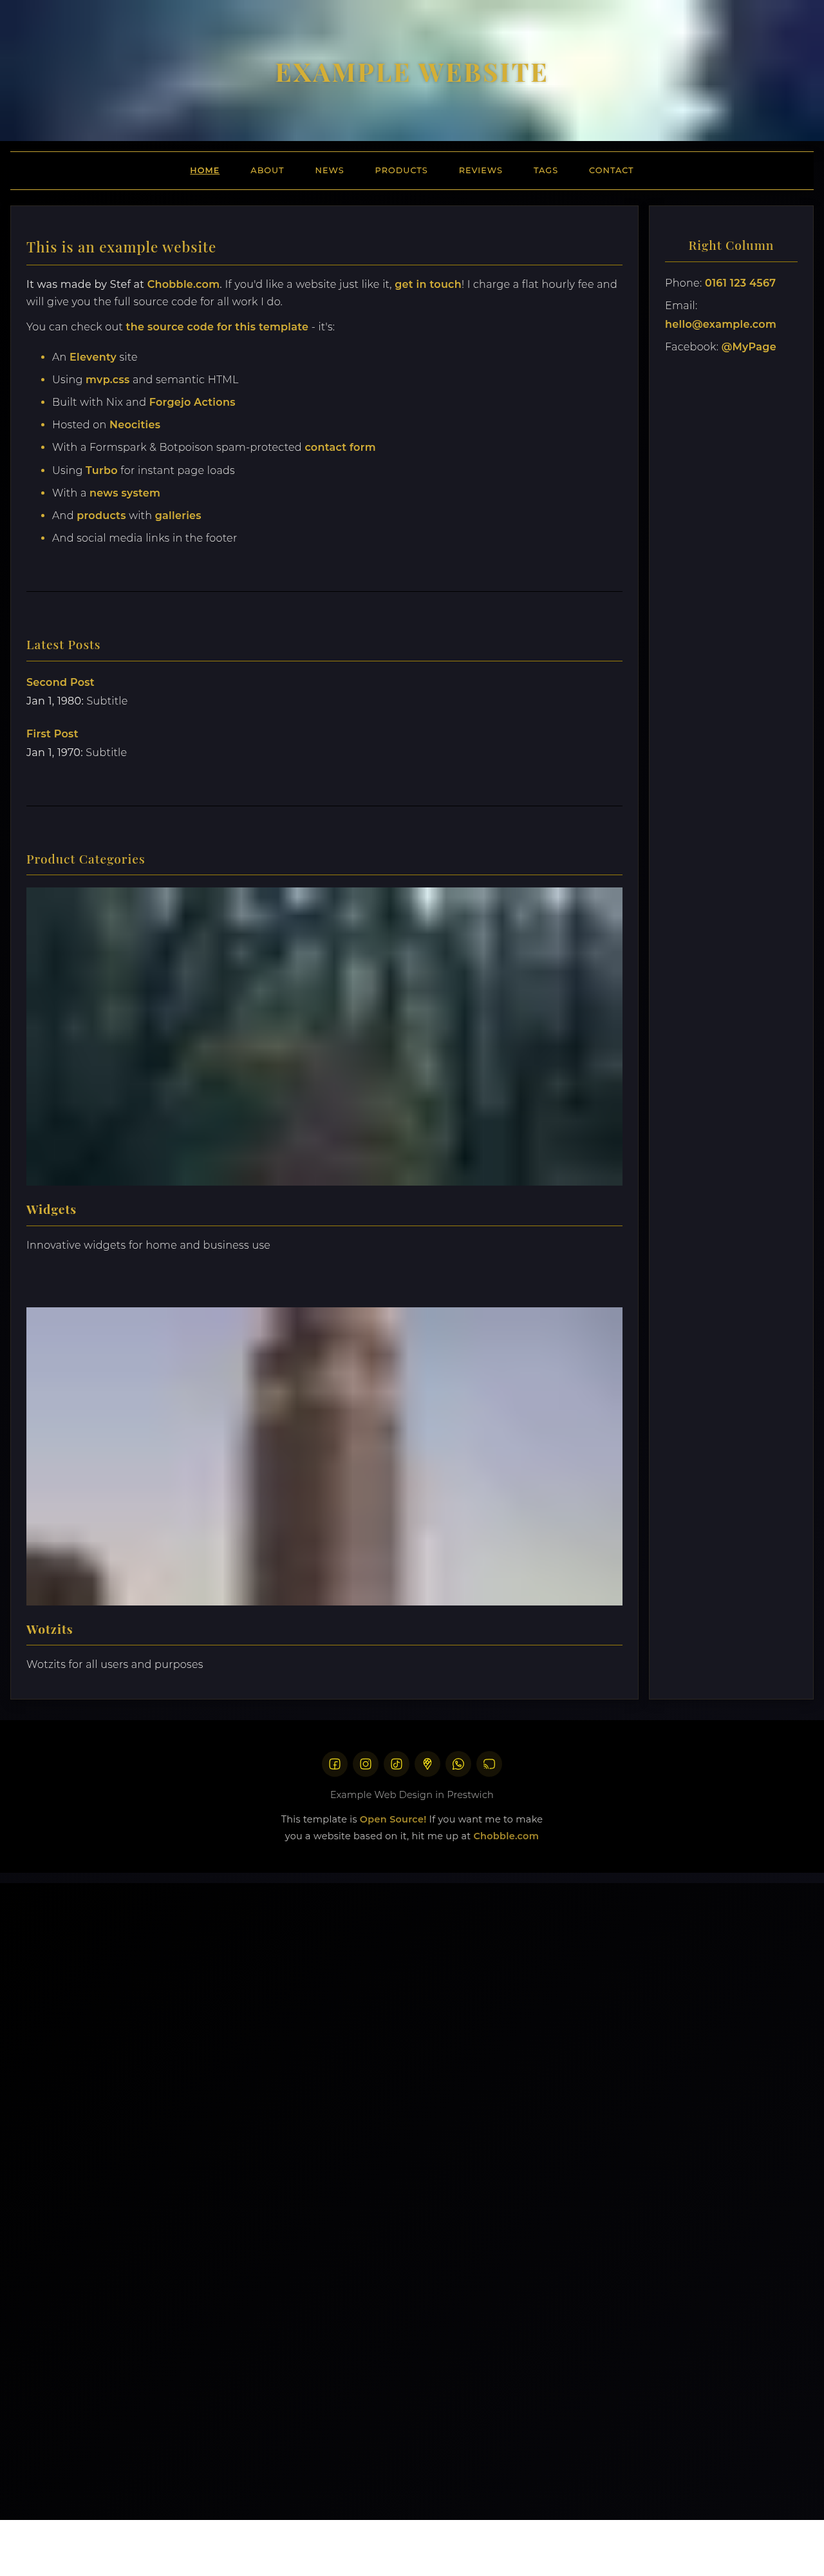
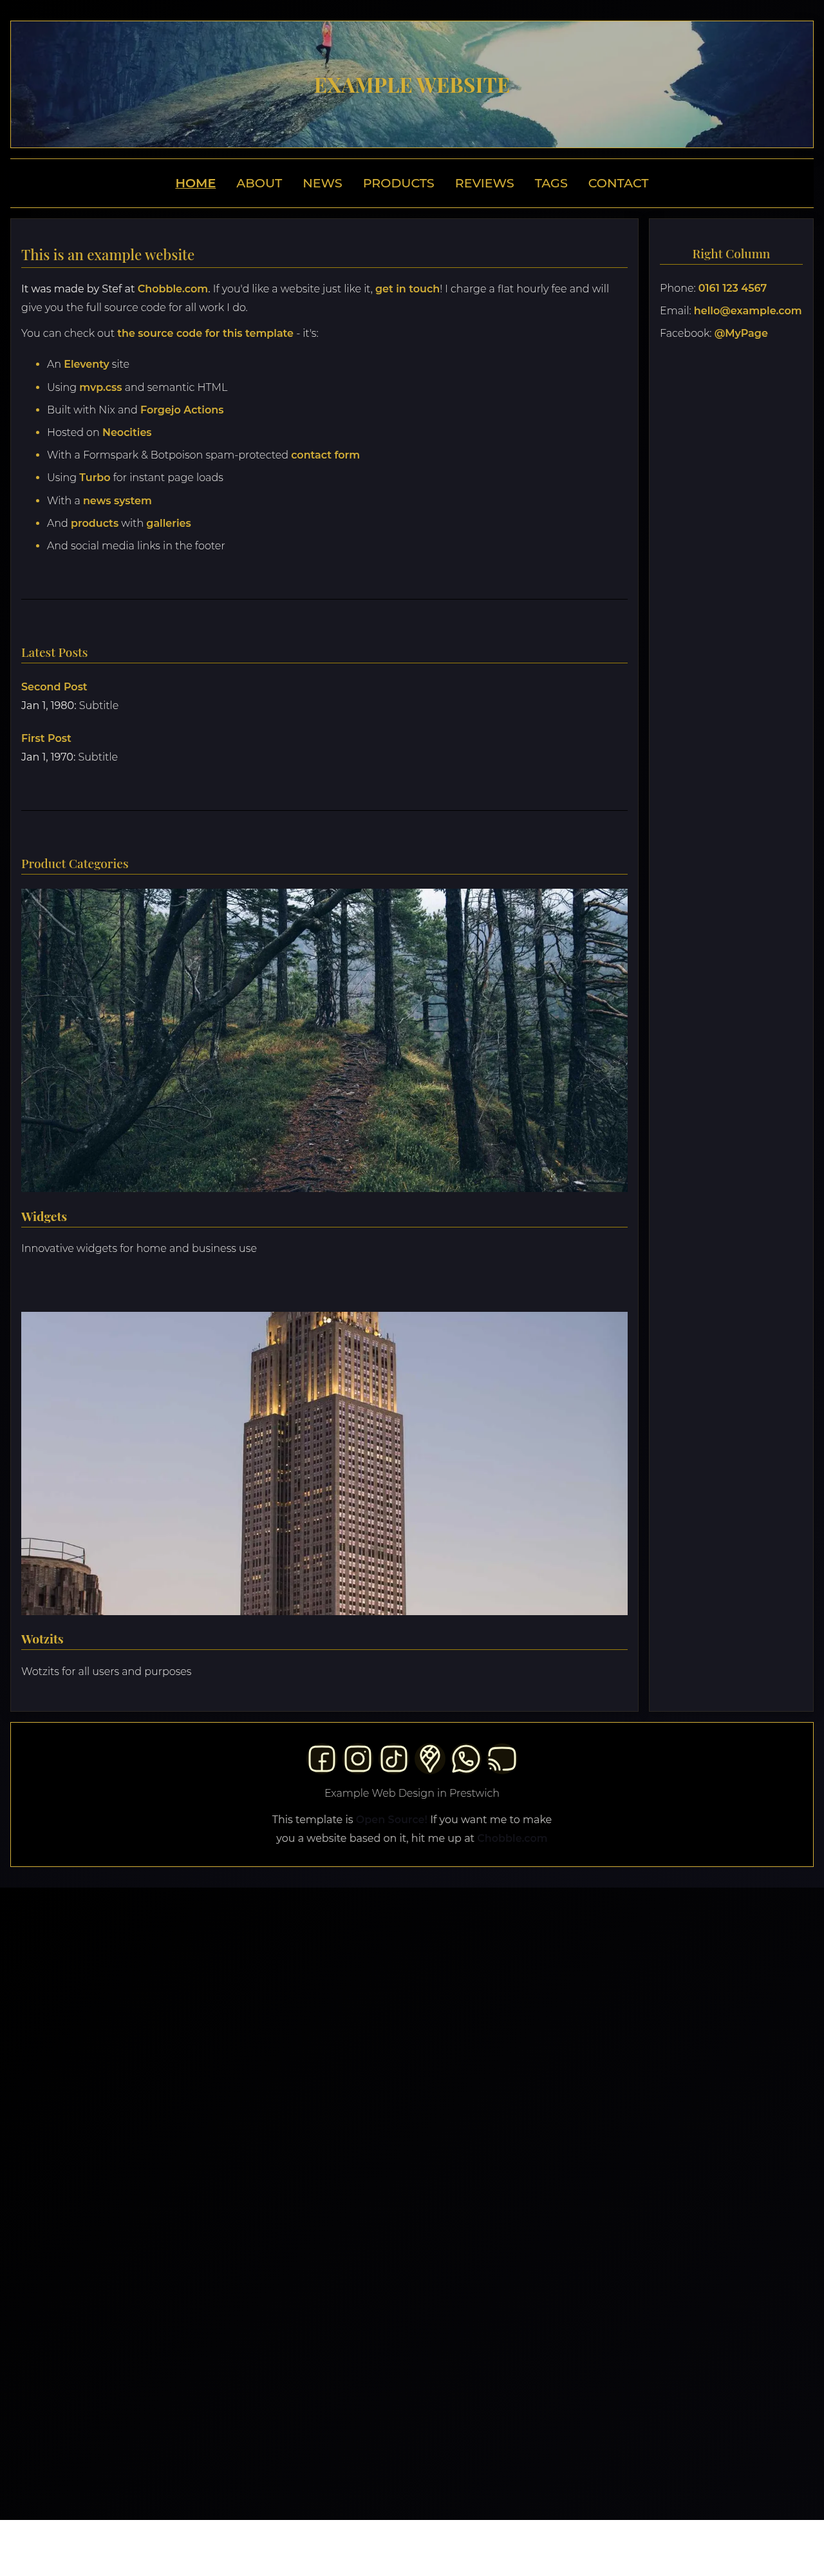
Simplify theme

diff --git a/src/css/theme.scss b/src/css/theme.scss
@@ -11,133 +11,112 @@ $platinum: #e5e4e2;
 $off-white: #f5f5f5;
 
 :root {
-  --color-bg: #{$charcoal} !important;
-  --color-bg-secondary: #{$black} !important;
-  --color-bg-main: #{$dark-gray} !important;
-  --color-text: #{$platinum} !important;
-  --color-text-secondary: #{$platinum} !important;
-  --color-link: #{$gold} !important;
-  --color-secondary: #{$gold-light} !important;
-  --color-secondary-accent: #{$gold-dark} !important;
+  --color-bg: #{$charcoal};
+  --color-bg-secondary: #{$black};
+  --color-bg-main: #{$dark-gray};
+  --color-text: #{$platinum};
+  --color-text-secondary: #{$platinum};
+  --color-link: #{$gold};
+  --color-secondary: #{$gold-light};
+  --color-secondary-accent: #{$gold-dark};
   
-  --outer-border-radius: 0 !important;
-  --outer-border-radius-small: 0 !important;
-  --border: 1px solid #{$gold} !important;
-  --box-shadow: 0 10px 20px rgba(0, 0, 0, 0.3) !important;
+  --outer-border-radius: 0;
+  --outer-border-radius-small: 0;
+  --border: 1px solid #{$gold};
+  --box-shadow: 0 10px 20px rgba(0, 0, 0, 0.3);
   
-  --font-family-heading: 'Playfair Display', Georgia, serif !important;
-  --font-family-body: 'Montserrat', Arial, sans-serif !important;
+  --font-family-heading: 'Playfair Display', Georgia, serif;
+  --font-family-body: 'Montserrat', Arial, sans-serif;
 }
 
 body {
-  background: linear-gradient(135deg, #{$black} 0%, #{$charcoal} 100%) !important;
-  color: var(--color-text) !important;
-  padding: 0 !important;
-  font-family: var(--font-family-body) !important;
-  font-weight: 300 !important;
-  letter-spacing: 0.3px !important;
+  background: linear-gradient(135deg, #{$black} 0%, #{$charcoal} 100%);
+  color: var(--color-text);
+  font-family: var(--font-family-body);
+  font-weight: 300;
 }
 
 h1, h2, h3, h4, h5, h6 {
-  font-family: var(--font-family-heading) !important;
-  letter-spacing: 1px !important;
-  color: #{$gold} !important;
-  margin-bottom: 1rem !important;
-  font-weight: 500 !important;
-  border-bottom: 1px solid #{$gold-dark} !important;
-  padding-bottom: 0.5rem !important;
+  font-family: var(--font-family-heading);
+  color: #{$gold};
+  font-weight: 500;
+  border-bottom: 1px solid #{$gold-dark};
 }
 
 a {
-  color: #{$gold} !important;
-  text-decoration: none !important;
-  transition: all 0.3s ease !important;
+  color: #{$gold};
+  text-decoration: none;
+  transition: all 0.3s ease;
   
   &:hover {
-    color: #{$gold-light} !important;
+    color: #{$gold-light};
   }
 }
 
 header {
-  border: none !important;
-  background: var(--color-bg-secondary) !important;
-  box-shadow: var(--box-shadow) !important;
-  overflow: hidden !important;
-  margin-top: 0 !important;
+  border: none;
+  background: var(--color-bg-secondary);
+  box-shadow: var(--box-shadow);
+  overflow: hidden;
   
   h1 {
-    text-transform: uppercase !important;
-    letter-spacing: 3px !important;
-    font-size: 2.5rem !important;
-    position: relative !important;
-    display: inline-block !important;
-    text-align: center !important;
-    font-weight: 700 !important;
-    font-family: 'Playfair Display', Georgia, serif !important;
-    border-bottom: none !important;
+    text-transform: uppercase;
+    position: relative;
+    display: inline-block;
+    text-align: center;
+    font-weight: 700;
+    font-family: 'Playfair Display', Georgia, serif;
+    border-bottom: none;
   }
   
   img {
-    filter: brightness(0.7) saturate(1.2) !important;
+    filter: brightness(0.7) saturate(1.2);
   }
 }
 
 nav {
-  background: #{$black} !important;
-  border: none !important;
-  box-shadow: var(--box-shadow) !important;
-  margin-bottom: 1.5rem !important;
-  border-bottom: 1px solid #{$gold} !important;
-  border-top: 1px solid #{$gold} !important;
-  padding: 0.5rem !important;
-  text-align: center !important;
-  display: flex !important;
-  flex-wrap: wrap !important;
-  justify-content: center !important;
-  gap: 0.5rem 1rem !important;
+  background: #{$black};
+  border: none;
+  box-shadow: var(--box-shadow);
+  border-bottom: 1px solid #{$gold};
+  border-top: 1px solid #{$gold};
+  text-align: center;
+  display: flex;
+  flex-wrap: wrap;
+  justify-content: center;
   
   a {
-    font-family: 'Montserrat', Arial, sans-serif !important;
-    transition: all 0.3s ease !important;
-    text-transform: uppercase !important;
-    letter-spacing: 1px !important;
-    font-size: 0.8rem !important;
-    font-weight: 500 !important;
-    padding: 0.4rem 0.5rem !important;
-    position: relative !important;
+    font-family: 'Montserrat', Arial, sans-serif;
+    transition: all 0.3s ease;
+    text-transform: uppercase;
+    font-weight: 500;
+    position: relative;
     
     &:hover {
-      color: #{$gold} !important;
+      color: #{$gold};
     }
     
     &.active {
-      color: #{$gold} !important;
-      text-decoration: underline !important;
-      font-weight: 600 !important;
+      color: #{$gold};
+      text-decoration: underline;
+      font-weight: 600;
     }
   }
 }
 
-main {
-  padding: 1rem !important;
-}
-
 article {
-  background: #{$dark-gray} !important;
-  border: 1px solid rgba(212, 175, 55, 0.1) !important;
-  box-shadow: 0 5px 15px rgba(0, 0, 0, 0.3) !important;
-  padding: 1.5rem !important;
-  margin-bottom: 1rem !important;
-  position: relative !important;
+  background: #{$dark-gray};
+  border: 1px solid rgba(212, 175, 55, 0.1);
+  box-shadow: 0 5px 15px rgba(0, 0, 0, 0.3);
+  position: relative;
   
   p {
-    color: #{$platinum} !important;
-    line-height: 1.7 !important;
+    color: #{$platinum};
   }
   
   ul, ol {
     li {
-      color: #{$platinum} !important;
+      color: #{$platinum};
       
       &::marker {
         color: #{$gold};
@@ -150,86 +129,75 @@ input[type="text"],
 input[type="password"],
 input[type="email"],
 textarea {
-  background: #{$dark-gray} !important;
-  border: 1px solid rgba(212, 175, 55, 0.3) !important;
-  color: #{$platinum} !important;
+  background: #{$dark-gray};
+  border: 1px solid rgba(212, 175, 55, 0.3);
+  color: #{$platinum};
   
   &:focus {
-    border-color: #{$gold} !important;
-    box-shadow: 0 0 5px rgba(212, 175, 55, 0.5) !important;
+    border-color: #{$gold};
+    box-shadow: 0 0 5px rgba(212, 175, 55, 0.5);
   }
 }
 
 button, 
 input[type="submit"] {
-  background: linear-gradient(135deg, #{$gold-dark} 0%, #{$gold} 100%) !important;
-  border: none !important;
-  color: #{$black} !important;
-  text-transform: uppercase !important;
-  letter-spacing: 1px !important;
-  transition: all 0.3s ease !important;
+  background: linear-gradient(135deg, #{$gold-dark} 0%, #{$gold} 100%);
+  border: none;
+  color: #{$black};
+  text-transform: uppercase;
+  transition: all 0.3s ease;
   
   &:hover {
-    transform: translateY(-2px) !important;
-    box-shadow: 0 5px 15px rgba(0, 0, 0, 0.3) !important;
+    transform: translateY(-2px);
+    box-shadow: 0 5px 15px rgba(0, 0, 0, 0.3);
   }
 }
 
 footer {
-  background: #{$black} !important;
-  border: none !important;
-  position: relative !important;
-  padding: 2rem 1rem !important;
+  background: #{$black};
+  border: none;
+  position: relative;
   
   p {
-    color: #{$platinum} !important;
-    opacity: 0.8 !important;
-    font-size: 0.9rem !important;
+    color: #{$platinum};
+    opacity: 0.8;
   }
   
   a {
-    color: #{$gold} !important;
-    position: relative !important;
-    display: inline-block !important;
+    color: #{$gold};
+    position: relative;
+    display: inline-block;
     
     &:hover {
-      color: #{$gold-light} !important;
+      color: #{$gold-light};
     }
   }
   
   ul {
-    list-style-type: none !important;
-    padding: 0 !important;
-    display: flex !important;
-    gap: 0.5rem !important;
-    justify-content: center !important;
+    list-style-type: none;
+    display: flex;
+    justify-content: center;
     
     li {
-      padding: 0 !important;
-      
       a {
-        background: rgba(212, 175, 55, 0.1) !important;
-        border-radius: 50% !important;
-        width: 40px !important;
-        height: 40px !important;
-        display: flex !important;
-        align-items: center !important;
-        justify-content: center !important;
-        transition: all 0.3s ease !important;
+        background: rgba(212, 175, 55, 0.1);
+        border-radius: 50%;
+        display: flex;
+        align-items: center;
+        justify-content: center;
+        transition: all 0.3s ease;
         
         img {
-          filter: invert(83%) sepia(32%) saturate(1102%) hue-rotate(359deg) brightness(107%) contrast(96%) !important;
-          transition: all 0.3s ease !important;
-          width: 20px !important;
-          height: 20px !important;
+          filter: invert(83%) sepia(32%) saturate(1102%) hue-rotate(359deg) brightness(107%) contrast(96%);
+          transition: all 0.3s ease;
         }
         
         &:hover {
-          background: rgba(212, 175, 55, 0.2) !important;
-          transform: translateY(-5px) !important;
+          background: rgba(212, 175, 55, 0.2);
+          transform: translateY(-5px);
           
           img {
-            filter: invert(83%) sepia(79%) saturate(503%) hue-rotate(358deg) brightness(104%) contrast(94%) !important;
+            filter: invert(83%) sepia(79%) saturate(503%) hue-rotate(358deg) brightness(104%) contrast(94%);
           }
         }
       }
@@ -238,24 +206,19 @@ footer {
 }
 
 * {
-  scrollbar-width: thin !important;
-  scrollbar-color: #{$gold-dark} #{$dark-gray} !important;
-  
-  &::-webkit-scrollbar {
-    width: 8px !important;
-    height: 8px !important;
-  }
+  scrollbar-width: thin;
+  scrollbar-color: #{$gold-dark} #{$dark-gray};
   
   &::-webkit-scrollbar-track {
-    background: #{$dark-gray} !important;
+    background: #{$dark-gray};
   }
   
   &::-webkit-scrollbar-thumb {
-    background-color: #{$gold-dark} !important;
-    border-radius: 4px !important;
+    background-color: #{$gold-dark};
+    border-radius: 4px;
     
     &:hover {
-      background-color: #{$gold} !important;
+      background-color: #{$gold};
     }
   }
 }
